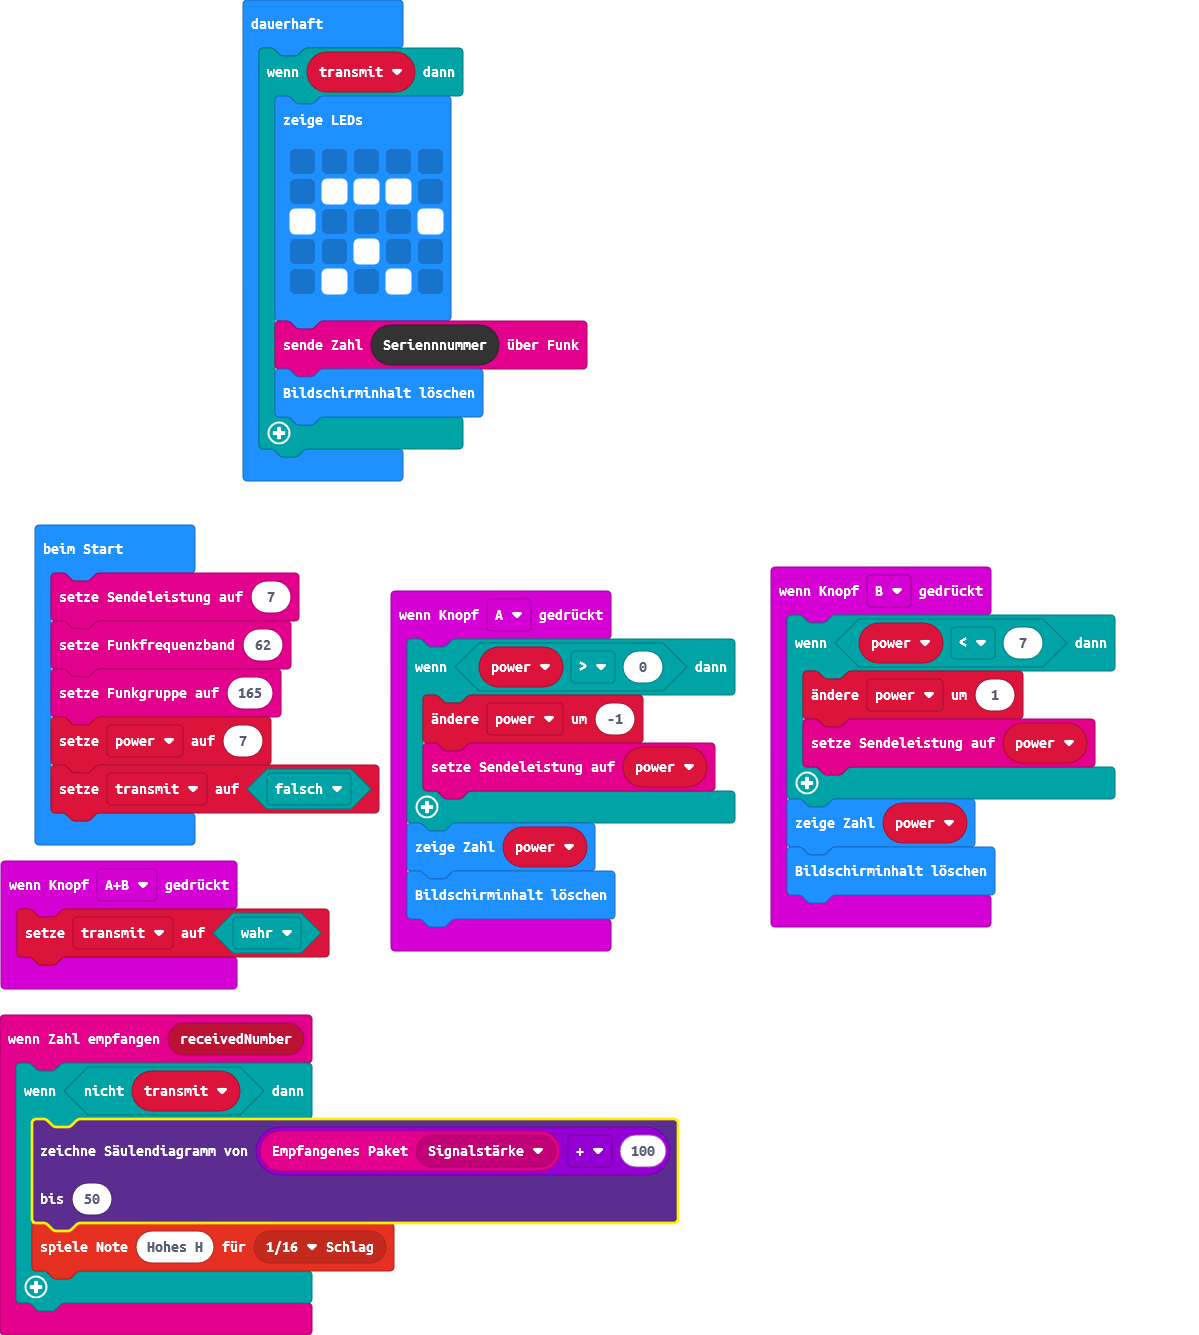
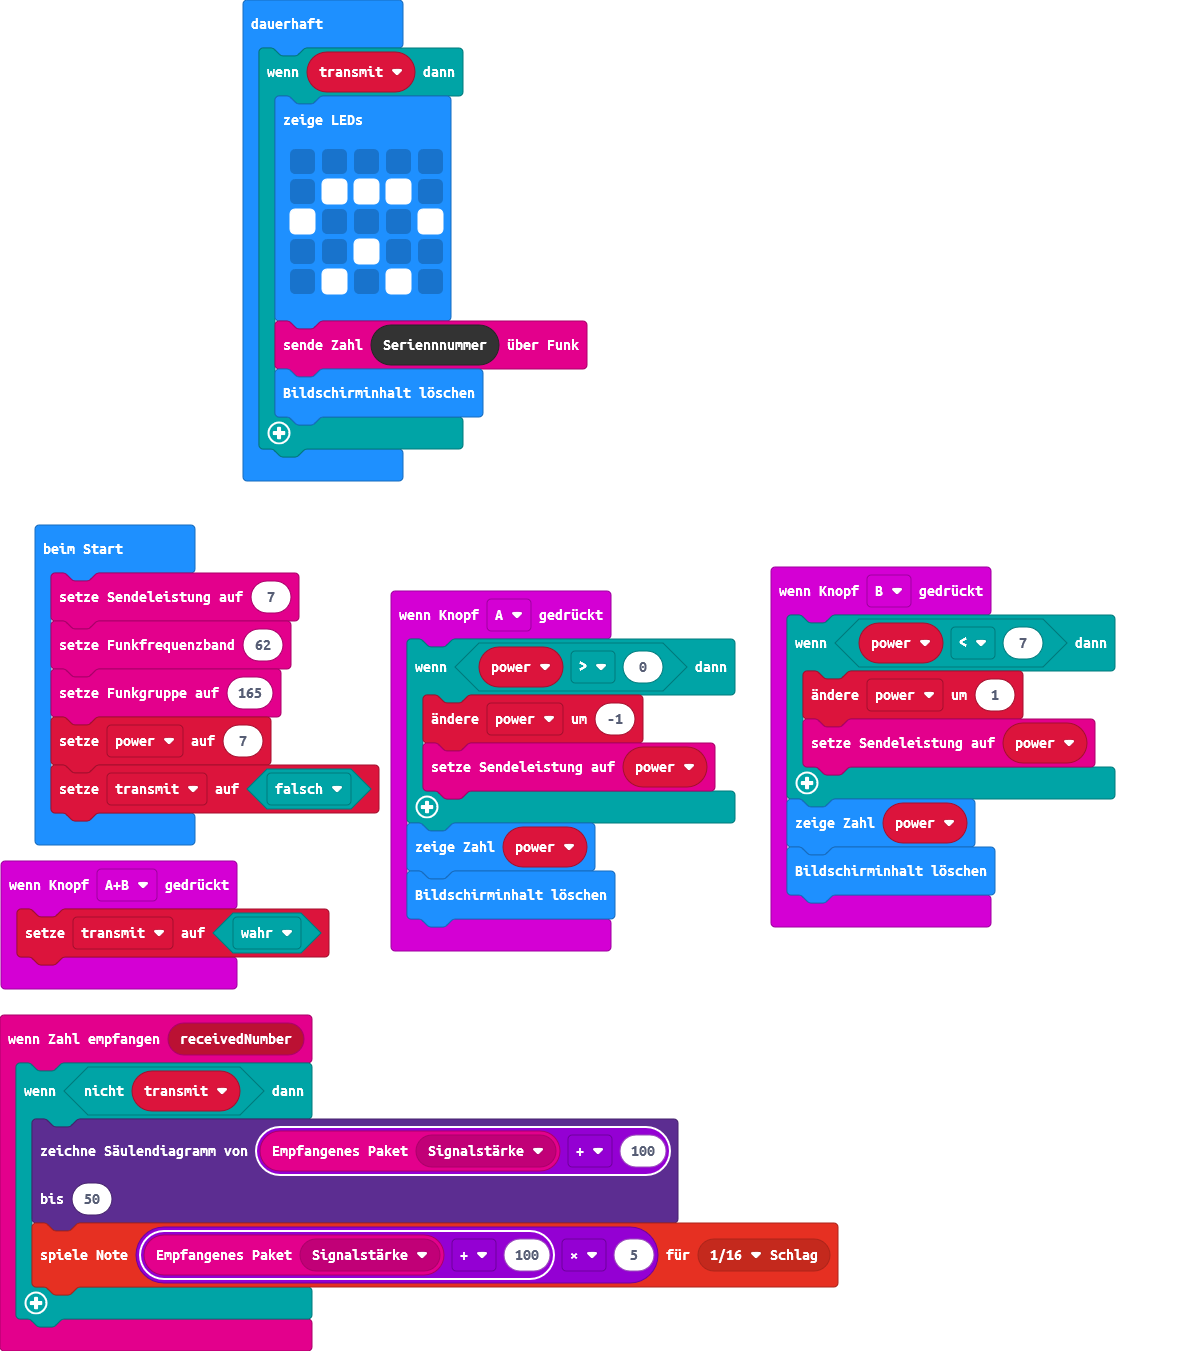
sound indicator

diff --git a/main.ts b/main.ts
@@ -4,7 +4,7 @@ radio.onReceivedNumber(function (receivedNumber) {
         radio.receivedPacket(RadioPacketProperty.SignalStrength) + 100,
         50
         )
-        music.playTone(988, music.beat(BeatFraction.Sixteenth))
+        music.playTone((radio.receivedPacket(RadioPacketProperty.SignalStrength) + 100) * 5, music.beat(BeatFraction.Sixteenth))
     }
 })
 input.onButtonPressed(Button.A, function () {
